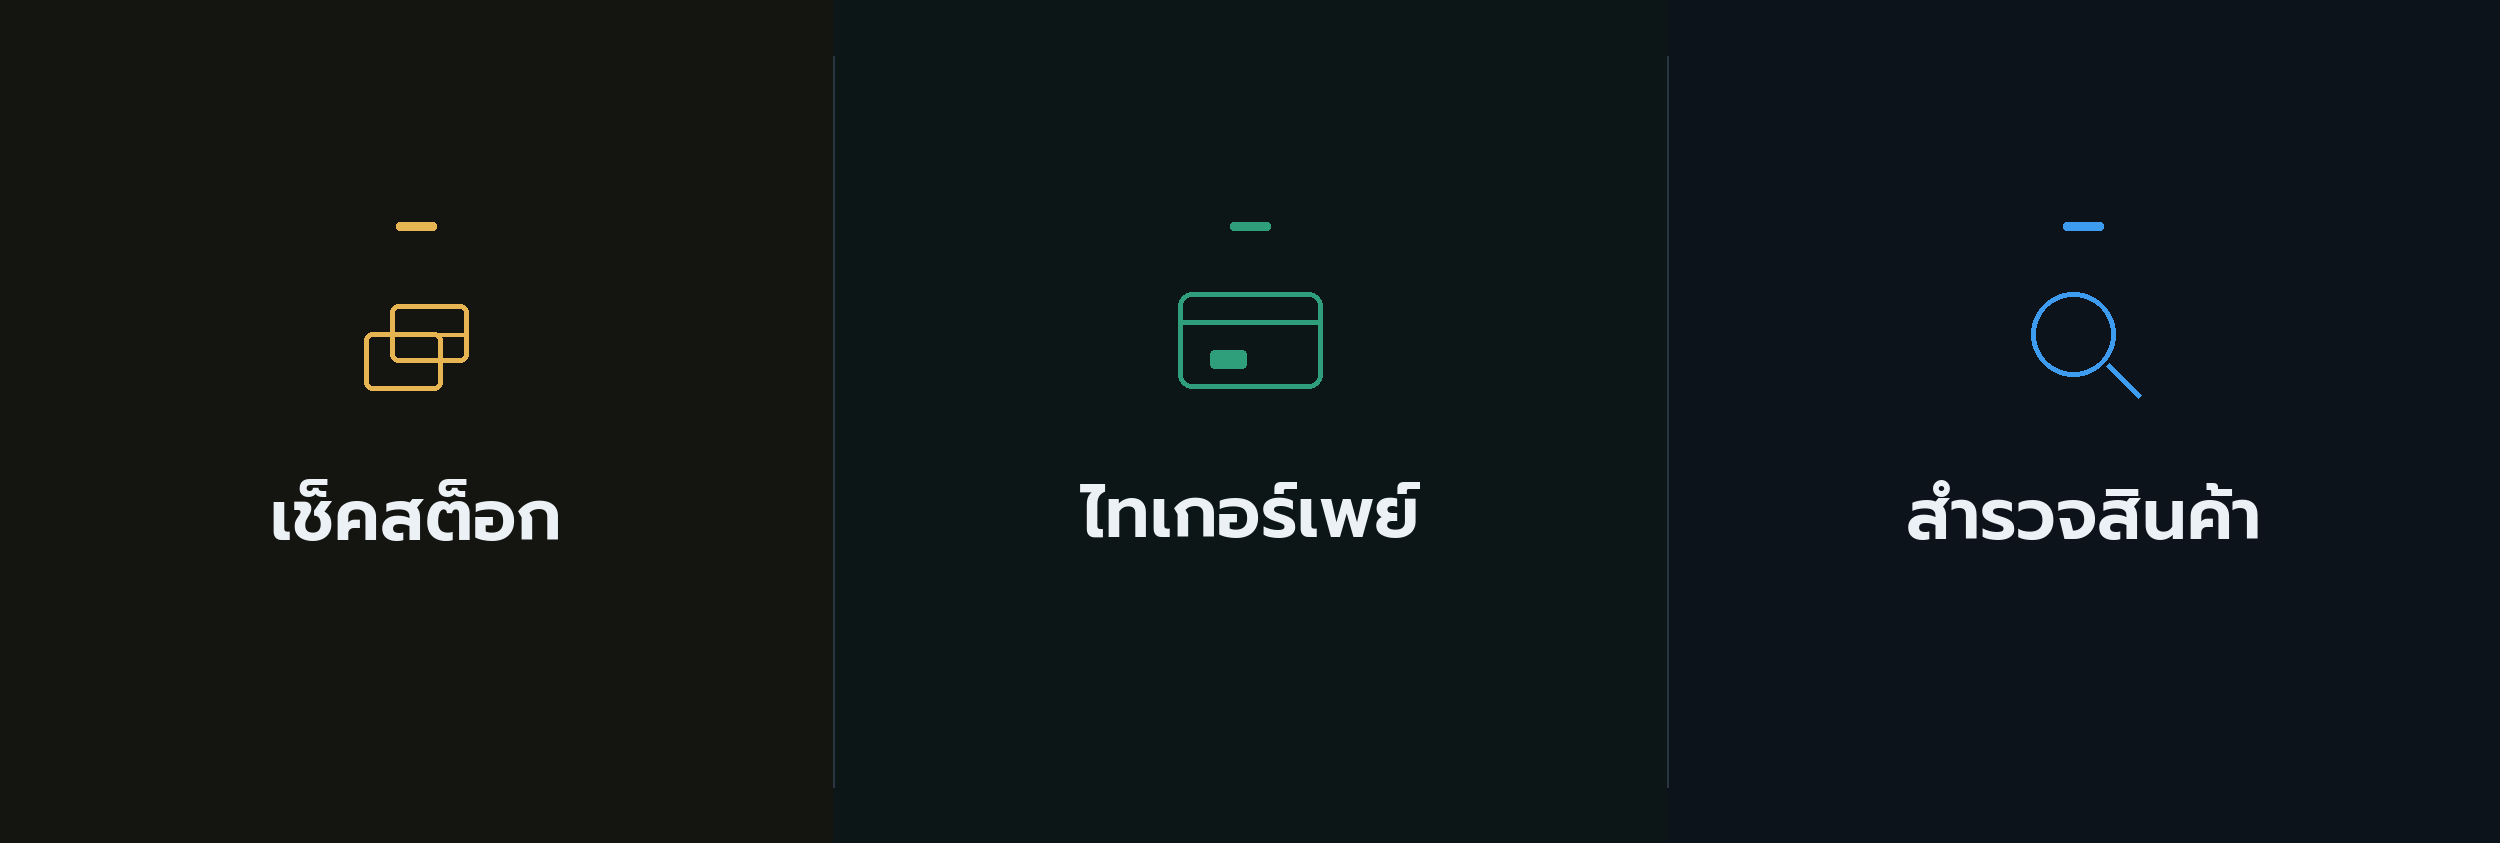
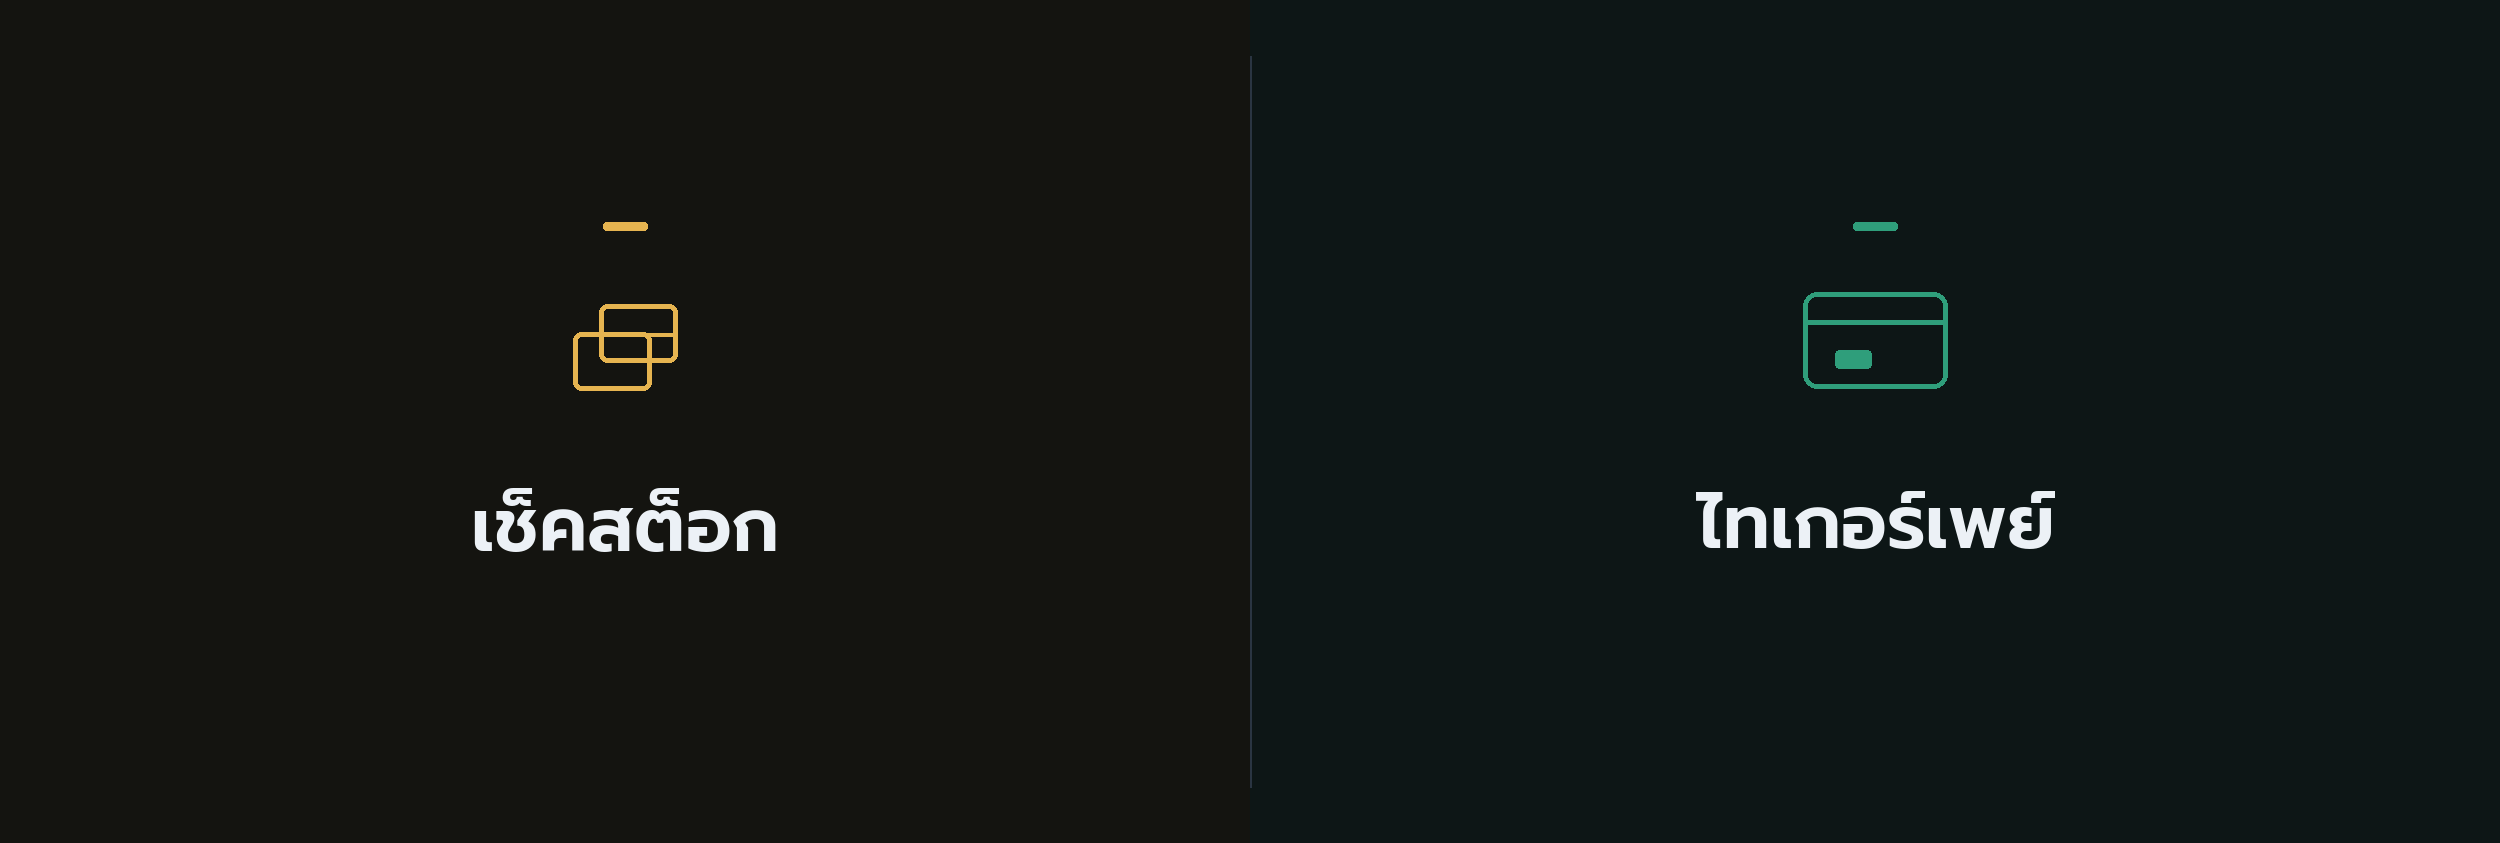
Drop explorer from LINE rich menu; keep stock check and Tiger Pay.
PARTS9 explorer is still experimental, so the menu is now two equal
columns. Message actions unchanged; one-tap URI open is not used because
entry links are per-user minted tokens across HQ/SYP LAN hosts.

diff --git a/scripts/line_rich_menu/generate_image.py b/scripts/line_rich_menu/generate_image.py
@@ -1,7 +1,7 @@
 #!/usr/bin/env python3
-"""Generate a simple/minimal KCW LINE rich-menu PNG (2500x843, half-height, 3 taps).
+"""Generate a simple/minimal KCW LINE rich-menu PNG (2500x843, half-height, 2 taps).
 
-Visual language mirrors the v2 shop tools (companion + PARTS9 explorer):
+Visual language mirrors the v2 shop tools (companion + stock-check):
 dark canvas, Prompt type, one icon + one label per column — no cards/header clutter.
 """
 
@@ -21,16 +21,13 @@ W, H = 2500, 843
 BG = (12, 16, 20)  # #0c1014
 LINE = (42, 53, 66)  # #2a3542
 TEXT = (236, 241, 246)
-MUTED = (122, 138, 154)
 
 STOCK = (230, 180, 80)  # explorer --warn
 PAY = (47, 158, 123)  # companion --accent #2f9e7b
-SEARCH = (61, 156, 240)  # explorer --acc #3d9cf0
 
 CELLS = [
     {"title": "เช็คสต็อก", "accent": STOCK, "icon": "boxes", "tint": (28, 24, 14)},
     {"title": "ไทเกอร์เพย์", "accent": PAY, "icon": "pay", "tint": (14, 28, 24)},
-    {"title": "สำรวจสินค้า", "accent": SEARCH, "icon": "search", "tint": (14, 22, 32)},
 ]
 
 
@@ -38,7 +35,6 @@ def _font(name: str, size: int) -> ImageFont.FreeTypeFont:
     path = FONTS / name
     if path.is_file():
         return ImageFont.truetype(str(path), size=size)
-    # Fallbacks if fonts/ is missing locally
     for fallback in (
         "/usr/share/fonts/truetype/noto/NotoSansThai-Bold.ttf",
         "/usr/share/fonts/truetype/noto/NotoSansThai-Regular.ttf",
@@ -67,7 +63,6 @@ def _center_text(
 
 
 def _draw_boxes_icon(draw: ImageDraw.ImageDraw, cx: int, cy: int, color: tuple[int, int, int]) -> None:
-    # Two simple stacked crates
     w, h = 78, 58
     draw.rounded_rectangle([cx - 52, cy - 8, cx + 26, cy + h - 8], radius=8, outline=color, width=5)
     draw.rounded_rectangle([cx - 26, cy - 36, cx + 52, cy + 22], radius=8, outline=color, width=5)
@@ -75,42 +70,31 @@ def _draw_boxes_icon(draw: ImageDraw.ImageDraw, cx: int, cy: int, color: tuple[i
 
 
 def _draw_pay_icon(draw: ImageDraw.ImageDraw, cx: int, cy: int, color: tuple[int, int, int]) -> None:
-    # Minimal payment card
     draw.rounded_rectangle([cx - 72, cy - 48, cx + 72, cy + 48], radius=14, outline=color, width=5)
     draw.line([(cx - 72, cy - 18), (cx + 72, cy - 18)], fill=color, width=5)
     draw.rounded_rectangle([cx - 40, cy + 10, cx - 4, cy + 28], radius=4, fill=color)
-
-
-def _draw_search_icon(draw: ImageDraw.ImageDraw, cx: int, cy: int, color: tuple[int, int, int]) -> None:
-    r = 42
-    draw.ellipse([cx - r - 10, cy - r - 6, cx + r - 10, cy + r - 6], outline=color, width=5)
-    draw.line([(cx + 24, cy + 24), (cx + 56, cy + 56)], fill=color, width=6)
 
 
 def generate() -> Path:
     img = Image.new("RGB", (W, H), BG)
     draw = ImageDraw.Draw(img)
 
-    widths = [833, 834, 833]
-    title_font = _font("Prompt-SemiBold.ttf", 70)
+    widths = [1250, 1250]
+    title_font = _font("Prompt-SemiBold.ttf", 74)
     x = 0
 
     for i, (cell, cw) in enumerate(zip(CELLS, widths)):
-        # Soft column wash (no inset cards)
         fill = _blend(BG, cell["tint"], 0.55)
         draw.rectangle([x, 0, x + cw, H], fill=fill)
 
-        # Thin vertical divider
         if i > 0:
             draw.line([(x, 56), (x, H - 56)], fill=LINE, width=2)
 
         cx = x + cw // 2
-        # Keep icon + label as one centered cluster
         icon_y = 340
-        title_y = 510
+        title_y = 520
 
-        # Small accent tick just above the icon
-        tick_w = 40
+        tick_w = 44
         draw.rounded_rectangle(
             [cx - tick_w // 2, icon_y - 118, cx + tick_w // 2, icon_y - 110],
             radius=3,
@@ -119,13 +103,10 @@ def generate() -> Path:
 
         if cell["icon"] == "boxes":
             _draw_boxes_icon(draw, cx, icon_y, cell["accent"])
-        elif cell["icon"] == "pay":
-            _draw_pay_icon(draw, cx, icon_y, cell["accent"])
         else:
-            _draw_search_icon(draw, cx, icon_y, cell["accent"])
+            _draw_pay_icon(draw, cx, icon_y, cell["accent"])
 
         _center_text(draw, (cx, title_y), cell["title"], title_font, TEXT)
-
         x += cw
 
     OUT.parent.mkdir(parents=True, exist_ok=True)

diff --git a/tests/test_line_rich_menu.py b/tests/test_line_rich_menu.py
@@ -6,7 +6,6 @@ import json
 from pathlib import Path
 
 from src.handlers.companion_entry import is_companion_command
-from src.handlers.explorer_entry import is_explorer_command
 from src.handlers.stock_check_entry import is_stock_check_command
 
 SPEC = Path(__file__).resolve().parents[1] / "scripts" / "line_rich_menu" / "menu_spec.json"
@@ -15,13 +14,12 @@ SPEC = Path(__file__).resolve().parents[1] / "scripts" / "line_rich_menu" / "men
 def test_rich_menu_message_actions_match_handlers():
     spec = json.loads(SPEC.read_text(encoding="utf-8"))
     areas = spec["areas"]
-    assert len(areas) == 3
+    assert len(areas) == 2
 
     texts = [a["action"]["text"] for a in areas]
-    assert texts == ["เช็คสต็อก", "ไทเกอร์", "สำรวจ"]
+    assert texts == ["เช็คสต็อก", "ไทเกอร์"]
     assert is_stock_check_command(texts[0])
     assert is_companion_command(texts[1])
-    assert is_explorer_command(texts[2])
 
 
 def test_rich_menu_geometry_is_line_half_size():
